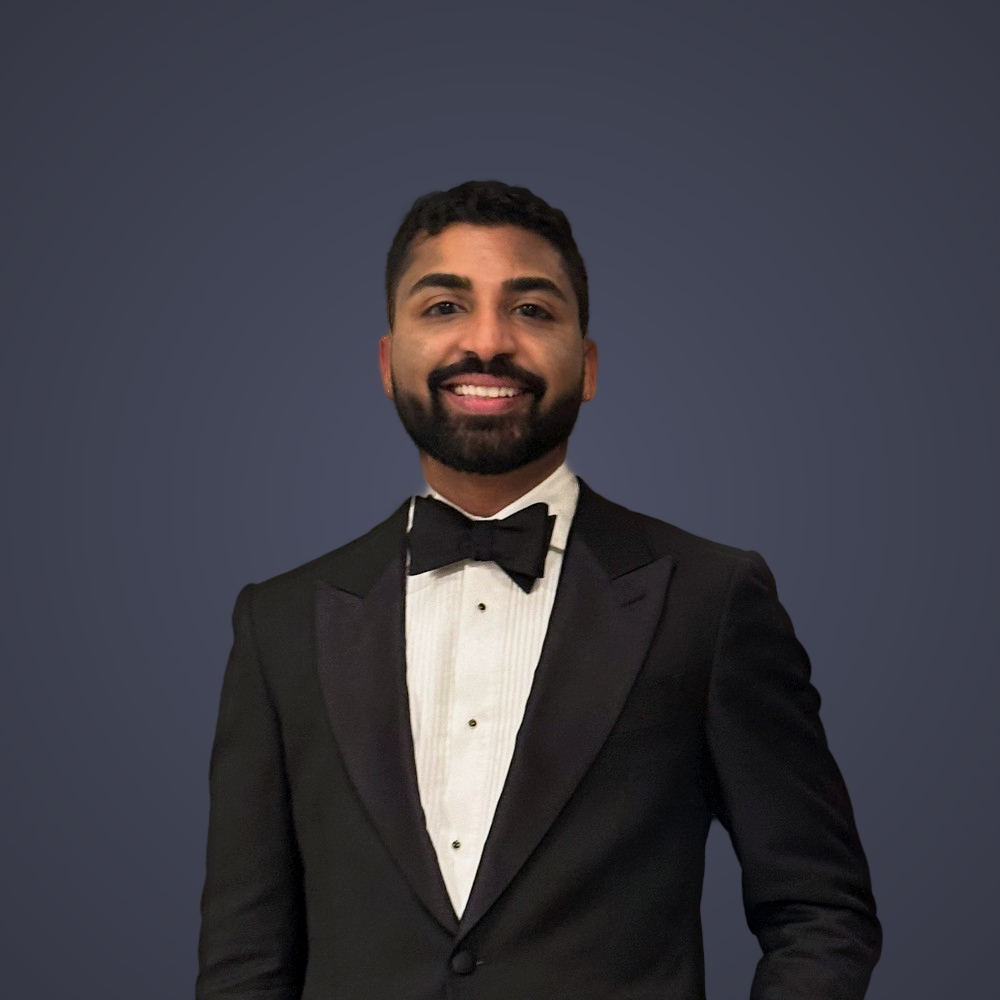
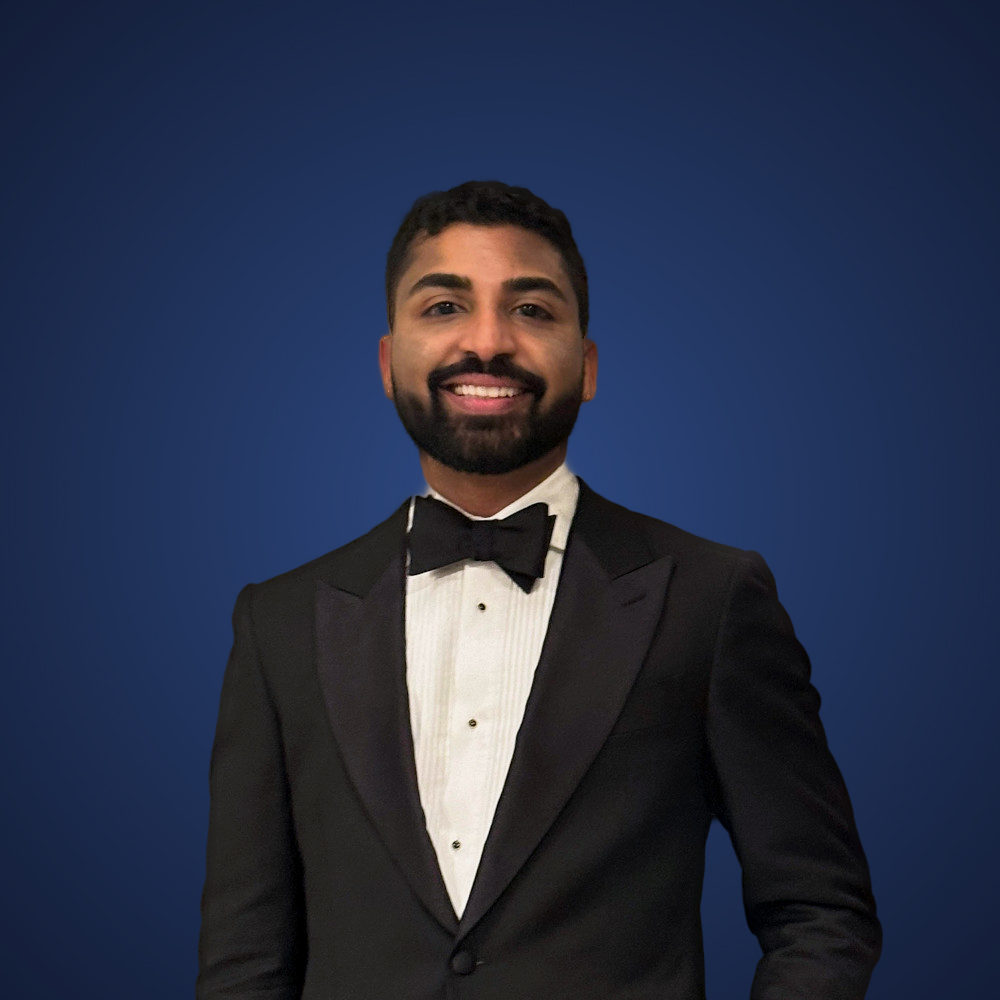
prof

diff --git a/css/main.css b/css/main.css
@@ -4,7 +4,7 @@
 
 :root {
 	--card-front-color: rgba(255, 255, 255, 0.8);
-	--back-background-color: #181c3ab3;
+	--back-background-color: #444965;
 	--accent-color: #4687c7;
 	--front-text-color: #22274d;
 	--accent-gray:#164470ad;
@@ -22,7 +22,7 @@ body {
 	white-space:nowrap;
 	font-family: 'Source Sans Pro';
 	background-color: #2a283e;
-  	background-image:  url(../images/honeycomb.svg), radial-gradient(circle, #60424d, #27273c 90%);
+  	background-image:  url(../images/honeycomb.svg);
 	/* background-image: url(../images/background.jpg); */
 	background-position: center center;
     background-repeat: no-repeat;
@@ -97,7 +97,7 @@ img {
     overflow-y: auto;*/
     background-color: var(--card-front-color);
 	box-shadow: 0 4px 8px 0 rgba(0, 0, 0, 0.3), 0 6px 20px 0 rgba(0, 0, 0, 0.15);
-	border: 6px outset #00000036;
+	border: 6px inset #00000036;
     transform-style: preserve-3d;
 	-webkit-transform-style: preserve-3d;
 	transform-style: preserve-3d;
@@ -341,7 +341,7 @@ a,
   color: rgb(255, 255, 255);
   background: var(--back-background-color);
   border-radius: 20px;
-  border: 8px outset #00000036;
+  border: 3px inset; #353a50;
   z-index: -10;
   overflow: hidden;
 }
@@ -386,7 +386,7 @@ a,
 	bottom: 89.5%;
 	left: 1%;
 	color: rgba(255, 255, 255, 0.4);
-	background-color: #4c5061;
+	background-color: #353a50;
 
 }
 
